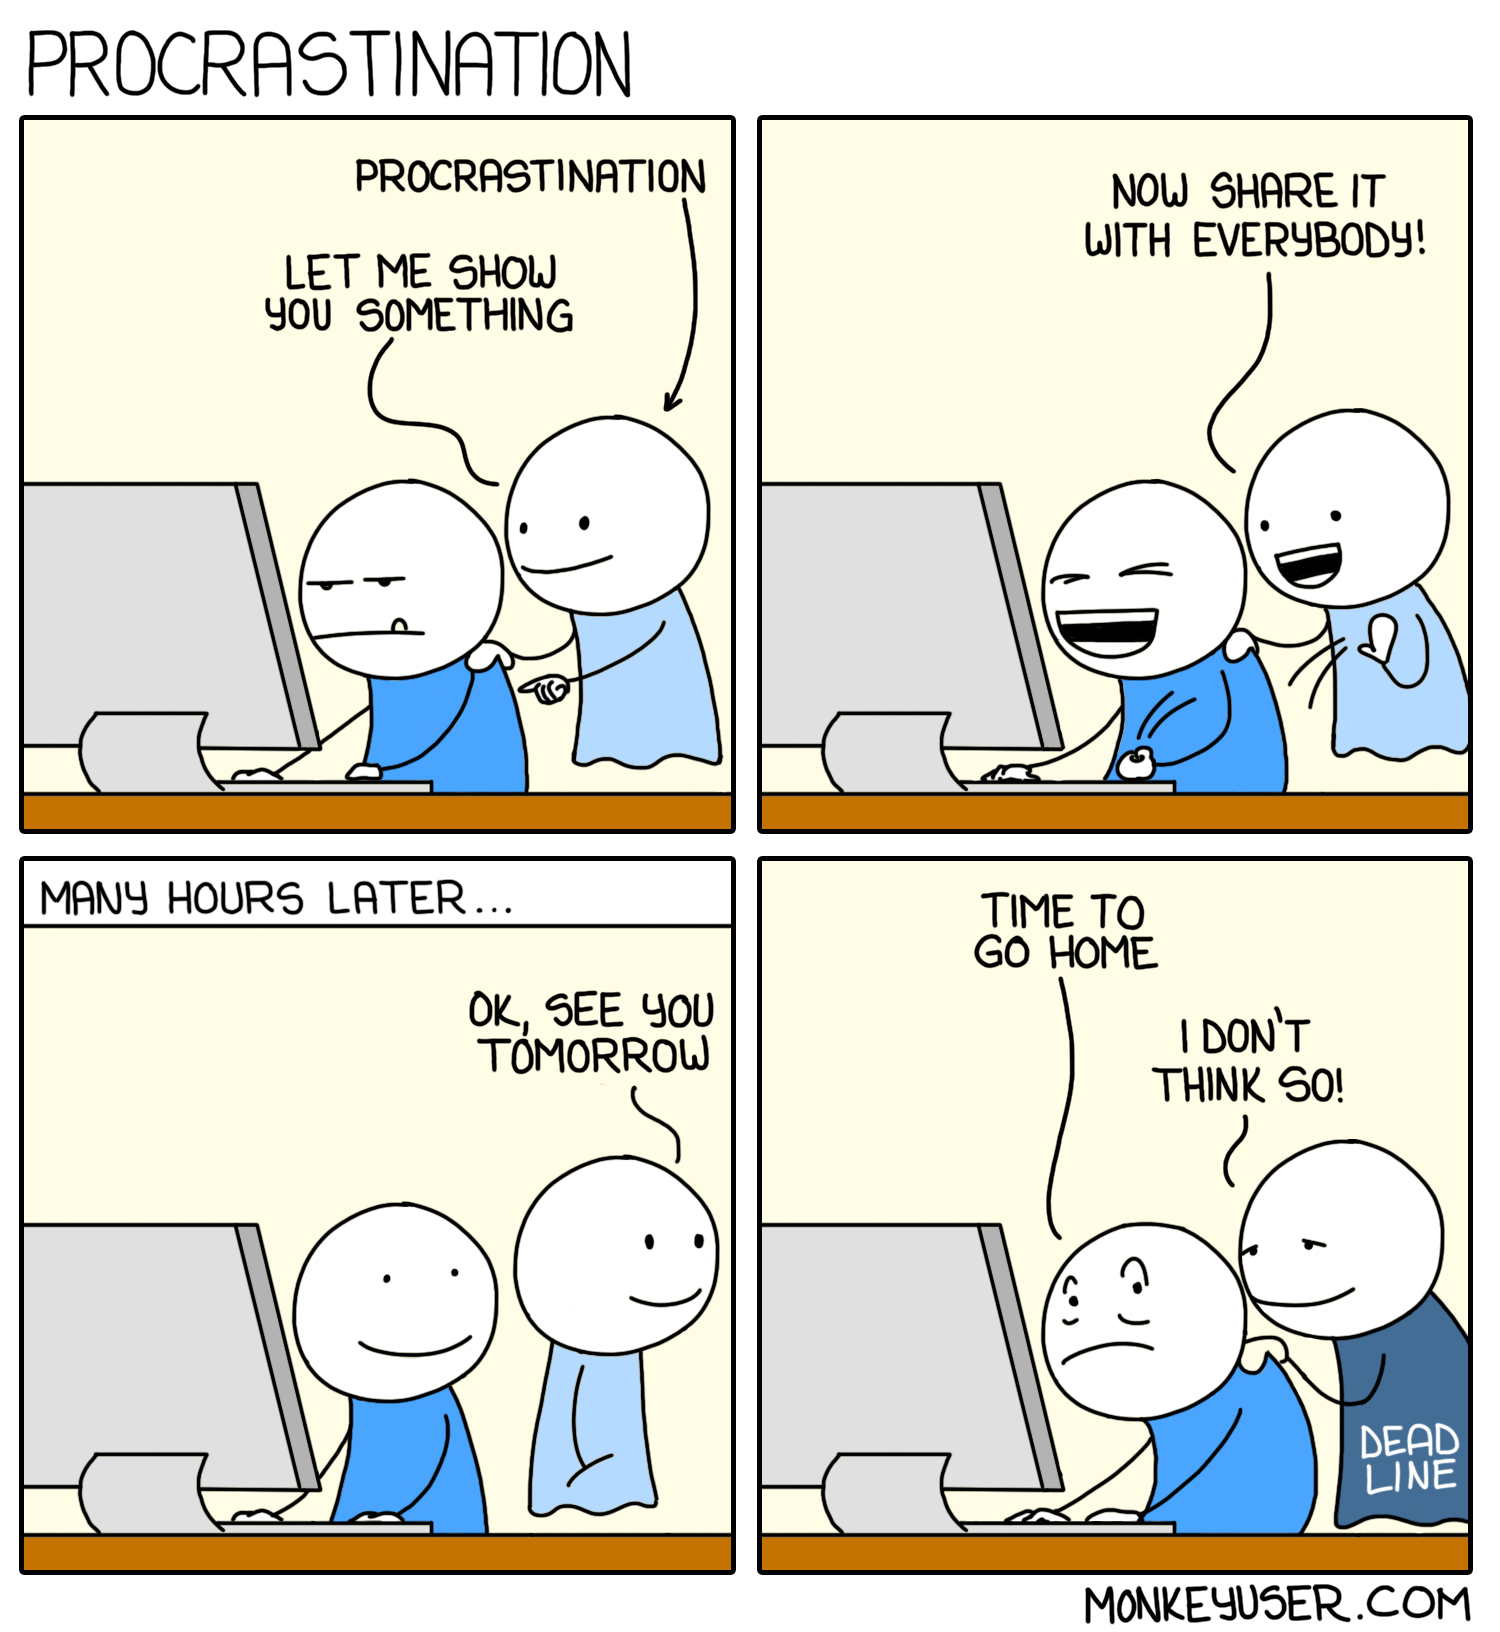
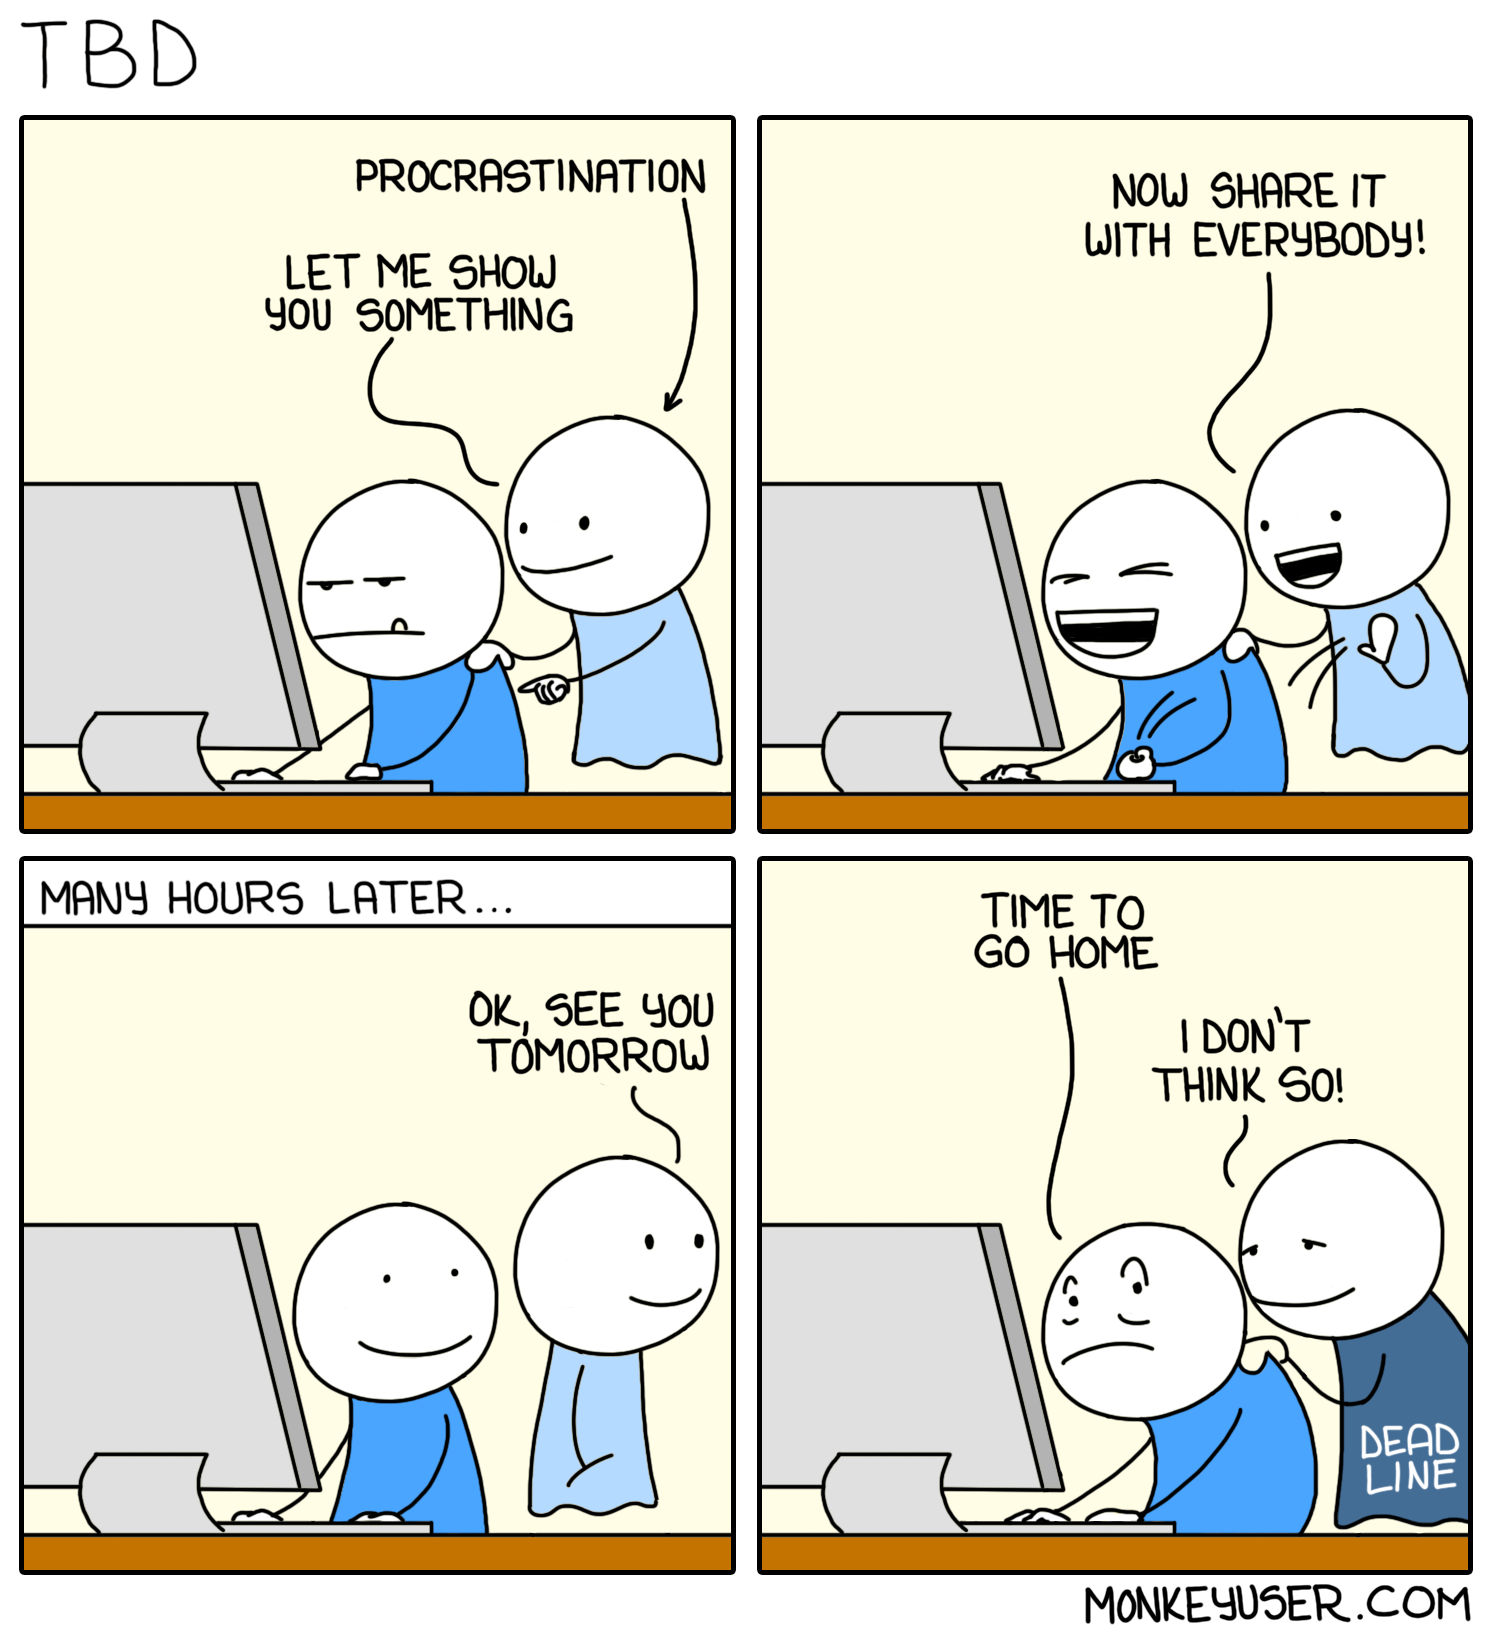
added procrastination

Changed region(s): [[0.0, 0.0, 0.4293, 0.0625]]

diff --git a/_posts/2018/2018-06-26-procrastination.md b/_posts/2018/2018-06-26-procrastination.md
@@ -1,0 +1,15 @@
+---
+layout: post
+title: TBD
+date: 2018-06-19T00:00:00.000Z
+position: 89% 20%
+tags:
+  - dev
+  - deadline
+  - procrastination
+image: 2018/94-procrastination.png
+published: true
+share: true
+---
+
+![TBD]({{ site.url }}/assets/images/2018/94-procrastination.png "TBD")
